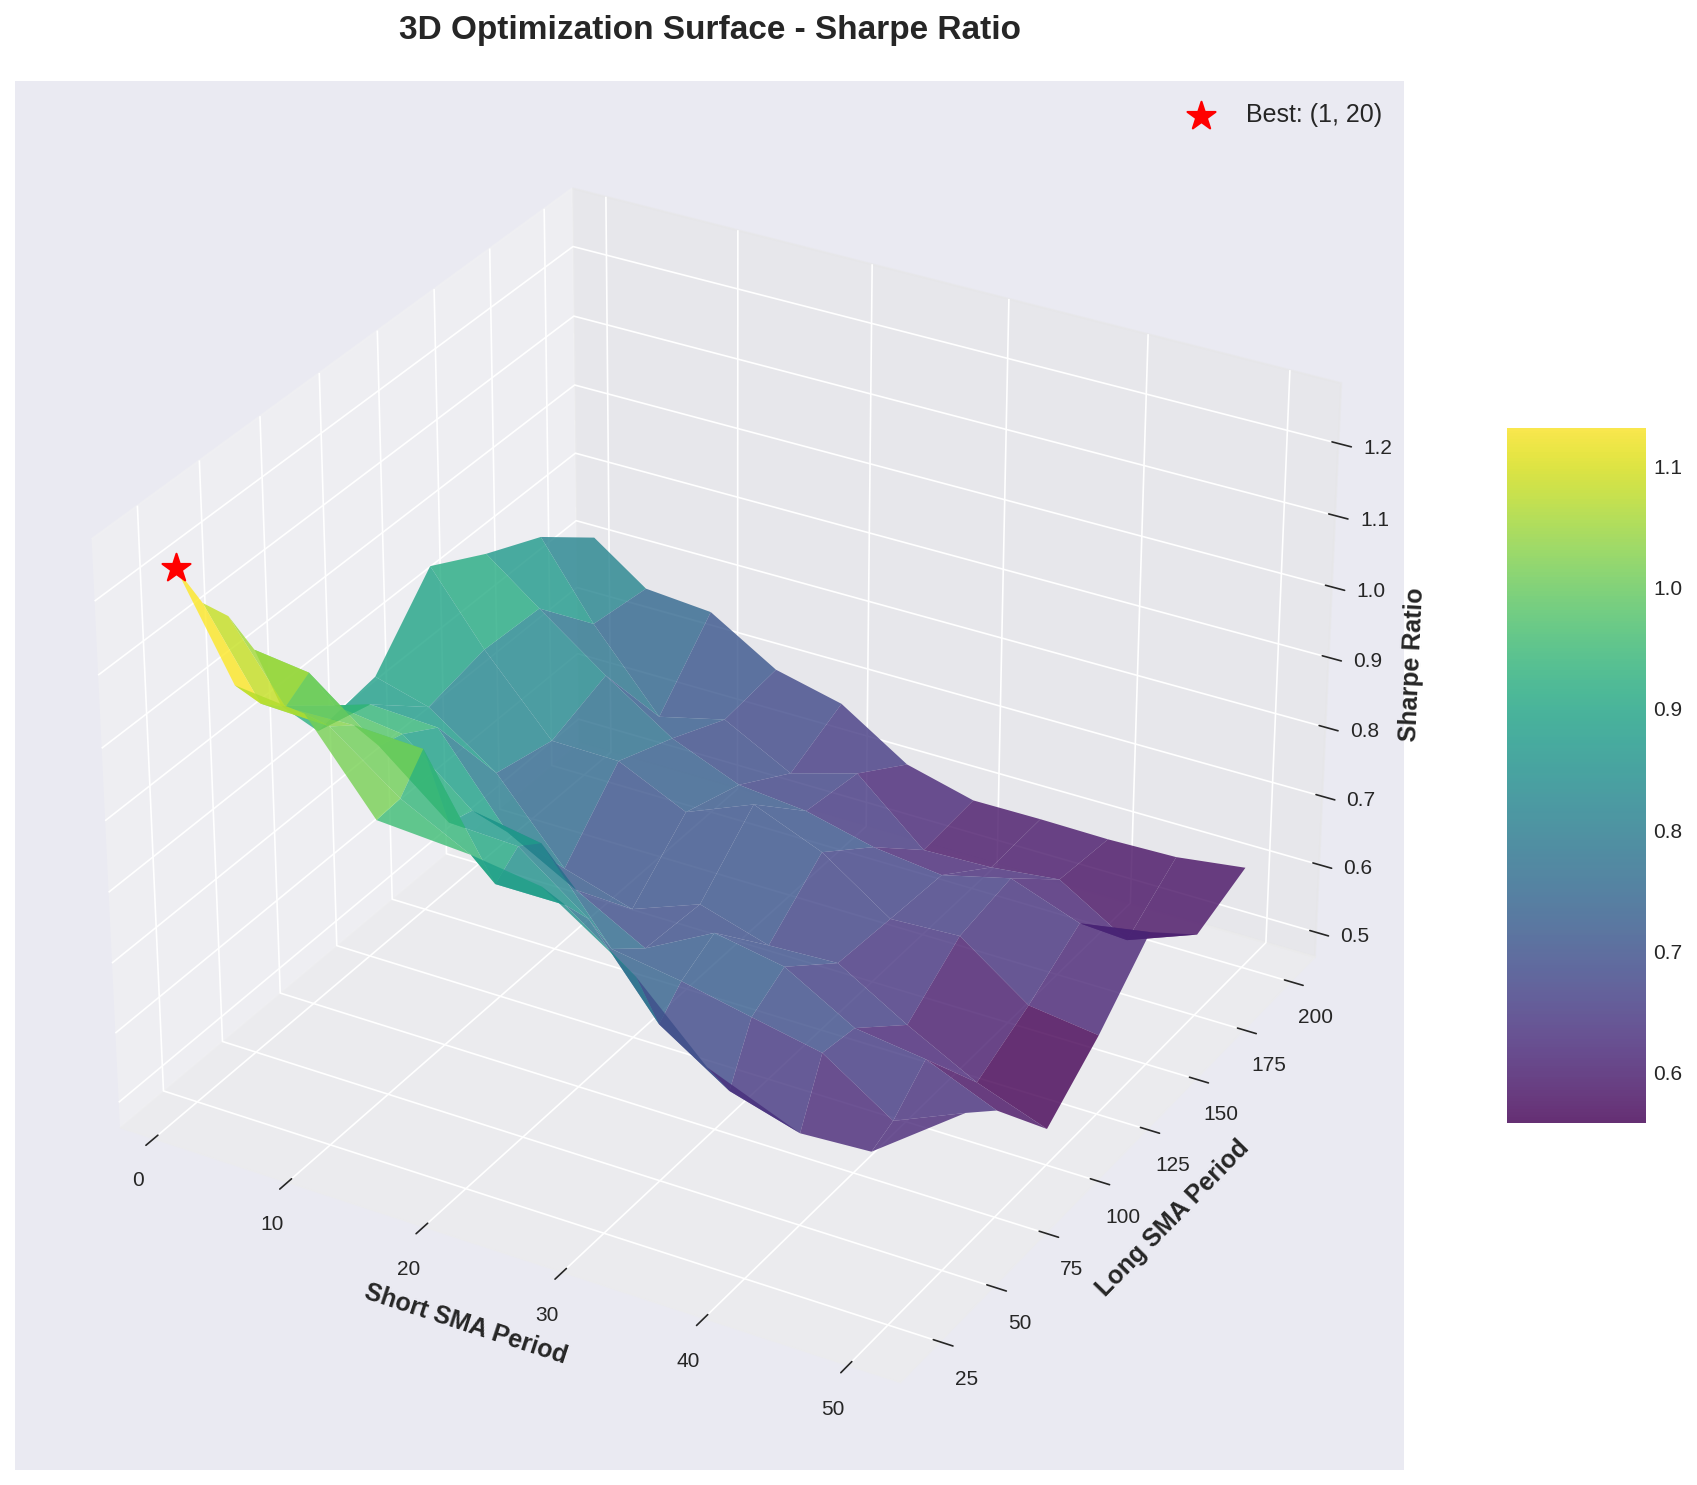
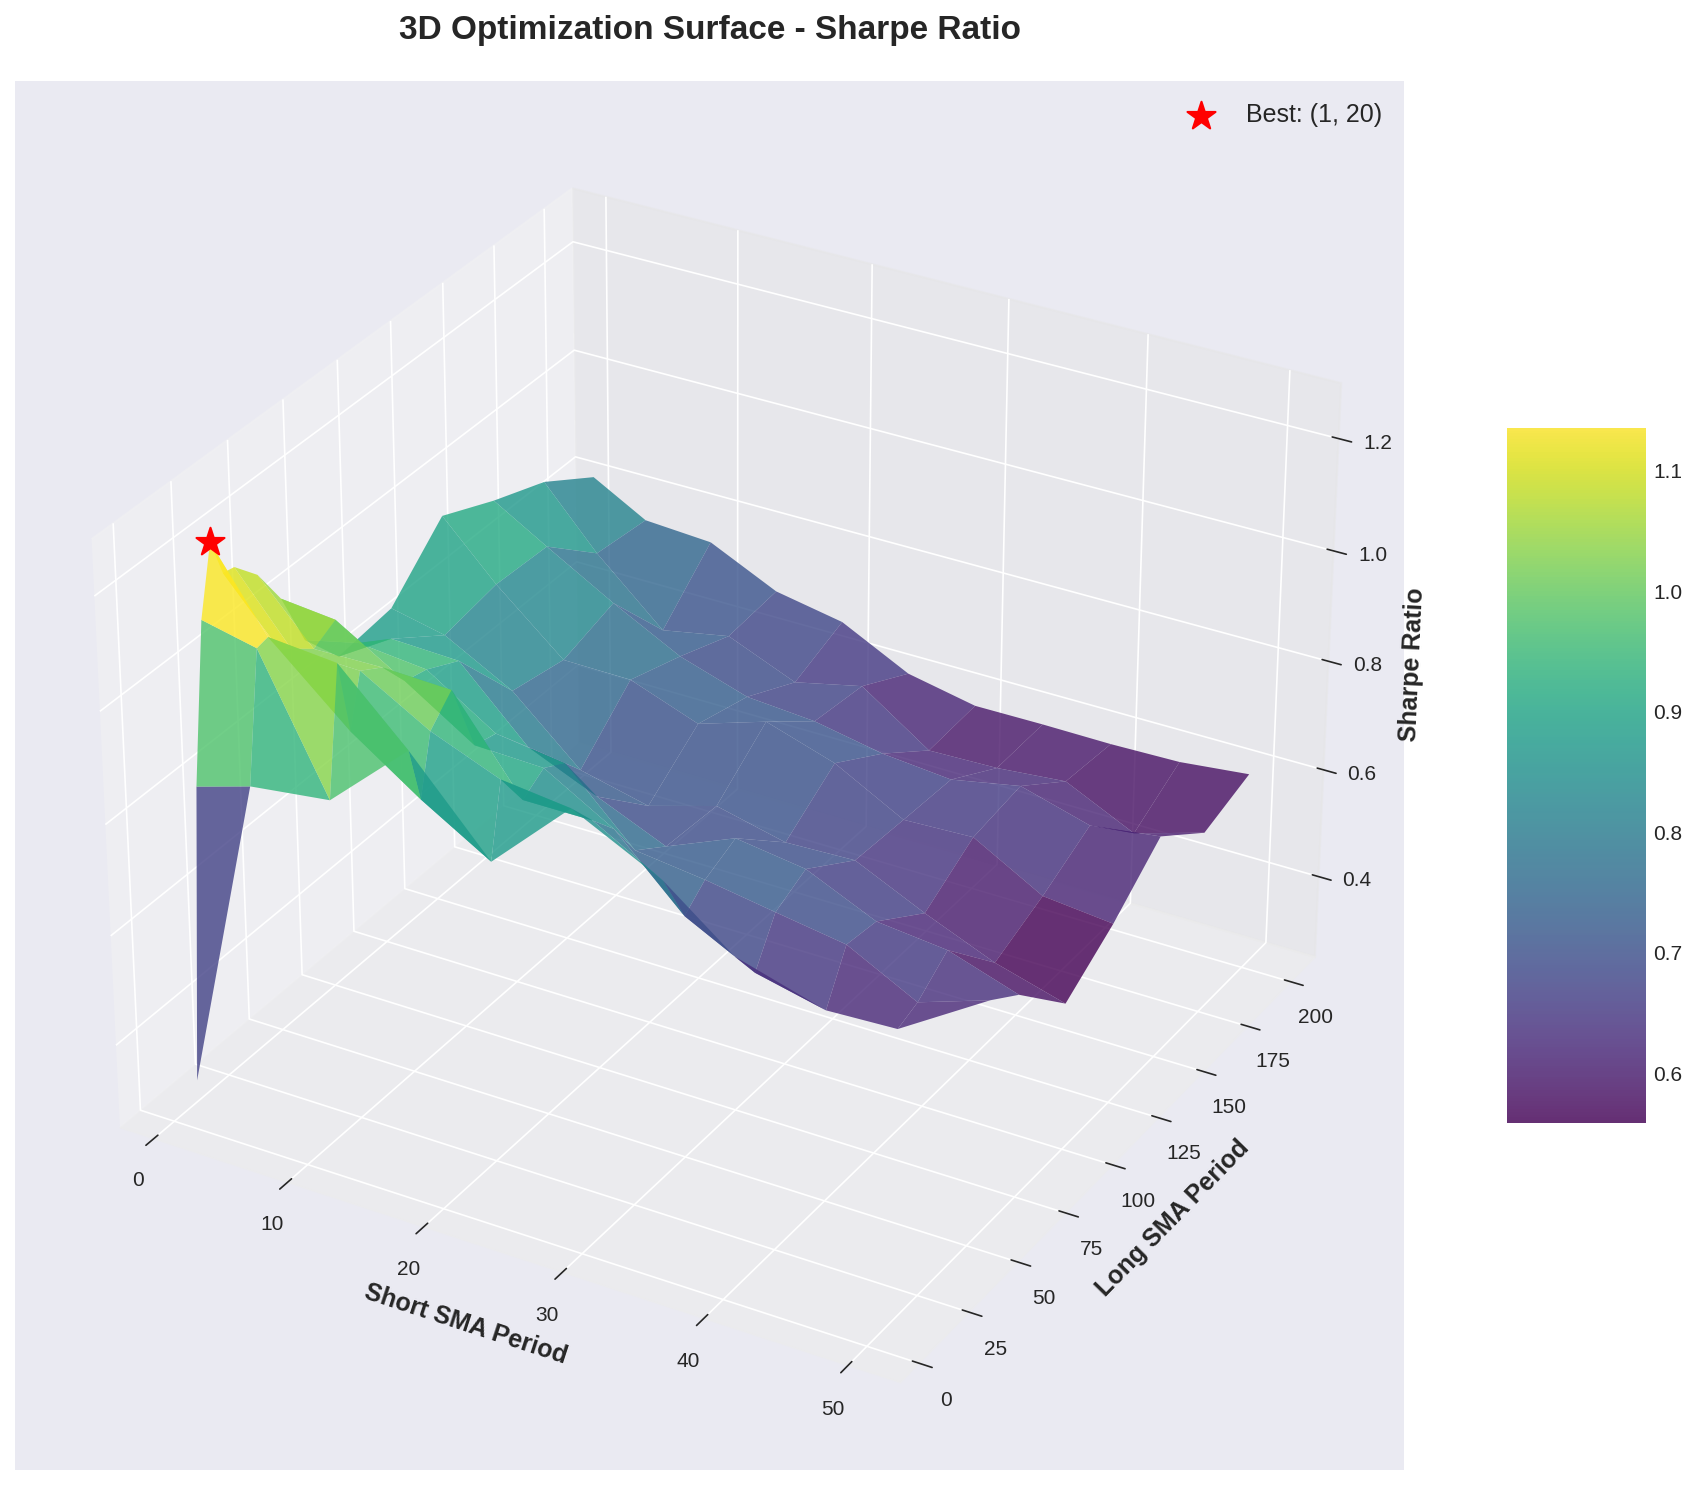
Extend SMA optimization to include short long periods (5-20)
Extended the parameter optimization to include shorter long periods,
providing a comprehensive analysis from Long=5 to Long=200.

Key findings from extended analysis:
- Total combinations tested: 116 (up from 105)
- Long=5 performs poorly (avg Sharpe: 0.314)
- Long=10 shows improvement (avg Sharpe: 0.847)
- Long=15-30 range is optimal (avg Sharpe: 1.016)
- Best combination remains SMA(1) vs SMA(20)

New insights:
1. Very short long periods (5-10) are too noisy
2. Long=15 becomes viable (best: Short=1, Sharpe=1.11)
3. Optimal long period range: 15-30 days
4. Trade-off: shorter periods = more trades but lower Sharpe

Top 5 with short long periods:
1. (1, 20): Sharpe 1.231, CAGR 70.81%
2. (1, 15): Sharpe 1.111, CAGR 59.96%
3. (5, 20): Sharpe 1.094, CAGR 58.40%
4. (5, 15): Sharpe 1.089, CAGR 59.18%
5. (10, 20): Sharpe 1.083, CAGR 57.20%

Files updated/added:
- sma_cross_optimization.py: Extended LONG_RANGE to start from 5
- sma_optimization_results.csv: Now includes 116 combinations
- sma_optimization_curves.png: Updated heatmaps with new data
- sma_optimization_3d_sharpe.png: Updated 3D surface with extended range
- create_short_long_comparison.py: New analysis script
- sma_short_long_comparison.png: Line chart comparison for short long periods

diff --git a/create_short_long_comparison.py b/create_short_long_comparison.py
@@ -1,0 +1,124 @@
+"""
+Create comparison chart for short long period combinations
+"""
+
+import pandas as pd
+import matplotlib.pyplot as plt
+import seaborn as sns
+import numpy as np
+
+# Set style
+plt.style.use('seaborn-v0_8-darkgrid')
+sns.set_palette("husl")
+
+# Load results
+df = pd.read_csv('sma_optimization_results.csv')
+
+# Filter for specific combinations to compare
+short_periods = [1, 5, 10]
+long_periods = [5, 10, 15, 20, 25, 30, 40, 50]
+
+# Filter data
+filtered_df = df[df['short_period'].isin(short_periods) &
+                 df['long_period'].isin(long_periods)].copy()
+
+# Create figure with multiple subplots
+fig, axes = plt.subplots(2, 3, figsize=(20, 12))
+fig.suptitle('SMA Cross Strategy - Short vs Long Period Comparison\n(Focus on Short Long Periods)',
+             fontsize=18, fontweight='bold', y=0.995)
+
+metrics = [
+    ('sharpe_ratio', 'Sharpe Ratio', 'Higher is Better'),
+    ('cagr', 'CAGR (%)', 'Higher is Better'),
+    ('total_return', 'Total Return (%)', 'Higher is Better'),
+    ('max_drawdown', 'Max Drawdown (%)', 'Closer to 0 is Better'),
+    ('win_rate', 'Win Rate (%)', 'Higher is Better'),
+    ('total_trades', 'Total Trades', 'Information')
+]
+
+for idx, (metric, title, note) in enumerate(metrics):
+    ax = axes[idx // 3, idx % 3]
+
+    # Create line plot for each short period
+    for short in short_periods:
+        data = filtered_df[filtered_df['short_period'] == short].sort_values('long_period')
+        ax.plot(data['long_period'], data[metric],
+               marker='o', linewidth=2.5, markersize=8,
+               label=f'Short={short}', alpha=0.8)
+
+    ax.set_title(f'{title}\n{note}', fontsize=13, fontweight='bold', pad=10)
+    ax.set_xlabel('Long SMA Period', fontsize=11, fontweight='bold')
+    ax.set_ylabel(title, fontsize=11, fontweight='bold')
+    ax.legend(loc='best', fontsize=10, framealpha=0.9)
+    ax.grid(True, alpha=0.3, linestyle='--')
+
+    # Mark the best value
+    if metric == 'max_drawdown':
+        best_idx = filtered_df[metric].idxmax()  # Closest to 0
+    else:
+        best_idx = filtered_df[metric].idxmax()
+
+    best_val = filtered_df.loc[best_idx]
+    ax.axvline(x=best_val['long_period'], color='red',
+              linestyle=':', linewidth=1.5, alpha=0.5)
+    ax.text(best_val['long_period'], ax.get_ylim()[1],
+           f"Best Long={int(best_val['long_period'])}\nShort={int(best_val['short_period'])}",
+           fontsize=9, ha='center', va='top',
+           bbox=dict(boxstyle='round', facecolor='yellow', alpha=0.7))
+
+plt.tight_layout()
+plt.savefig('sma_short_long_comparison.png', dpi=150, bbox_inches='tight')
+print("✓ Short-long comparison chart saved to: sma_short_long_comparison.png")
+plt.close()
+
+# Create a summary table
+print("\n" + "="*80)
+print("SUMMARY: Top 10 Combinations (by Sharpe Ratio)")
+print("="*80)
+top_10 = df.nlargest(10, 'sharpe_ratio')[['short_period', 'long_period',
+                                           'total_return', 'cagr',
+                                           'sharpe_ratio', 'max_drawdown',
+                                           'win_rate', 'total_trades']]
+print(top_10.to_string(index=False))
+print("="*80)
+
+# Create a focused table for short long periods
+print("\n" + "="*80)
+print("FOCUS: Combinations with Long Period 5-20")
+print("="*80)
+short_long_df = df[df['long_period'] <= 20].sort_values('sharpe_ratio', ascending=False)
+print(short_long_df[['short_period', 'long_period', 'total_return', 'cagr',
+                     'sharpe_ratio', 'max_drawdown', 'win_rate']].head(15).to_string(index=False))
+print("="*80)
+
+# Key insights
+print("\n" + "="*80)
+print("KEY INSIGHTS")
+print("="*80)
+print(f"1. Best Overall: Short={int(df.loc[df['sharpe_ratio'].idxmax(), 'short_period'])}, " +
+      f"Long={int(df.loc[df['sharpe_ratio'].idxmax(), 'long_period'])}, " +
+      f"Sharpe={df['sharpe_ratio'].max():.3f}")
+
+short_long = df[df['long_period'] <= 20]
+print(f"2. Best with Long≤20: Short={int(short_long.loc[short_long['sharpe_ratio'].idxmax(), 'short_period'])}, " +
+      f"Long={int(short_long.loc[short_long['sharpe_ratio'].idxmax(), 'long_period'])}, " +
+      f"Sharpe={short_long['sharpe_ratio'].max():.3f}")
+
+print(f"3. Combinations with Long=5: {len(df[df['long_period']==5])} tested, " +
+      f"Best Sharpe={df[df['long_period']==5]['sharpe_ratio'].max():.3f}")
+
+print(f"4. Combinations with Long=10: {len(df[df['long_period']==10])} tested, " +
+      f"Best Sharpe={df[df['long_period']==10]['sharpe_ratio'].max():.3f}")
+
+print(f"5. Combinations with Long=15: {len(df[df['long_period']==15])} tested, " +
+      f"Best Sharpe={df[df['long_period']==15]['sharpe_ratio'].max():.3f}")
+
+print(f"6. Combinations with Long=20: {len(df[df['long_period']==20])} tested, " +
+      f"Best Sharpe={df[df['long_period']==20]['sharpe_ratio'].max():.3f}")
+
+print("\n7. Pattern Analysis:")
+print(f"   - Long=5 performs poorly (avg Sharpe: {df[df['long_period']==5]['sharpe_ratio'].mean():.3f})")
+print(f"   - Long=10 shows improvement (avg Sharpe: {df[df['long_period']==10]['sharpe_ratio'].mean():.3f})")
+print(f"   - Long=15-30 range is optimal (avg Sharpe 15-30: {df[df['long_period'].between(15,30)]['sharpe_ratio'].mean():.3f})")
+print(f"   - Very long periods (>100) decline (avg Sharpe >100: {df[df['long_period']>100]['sharpe_ratio'].mean():.3f})")
+print("="*80)

diff --git a/sma_cross_optimization.py b/sma_cross_optimization.py
@@ -553,8 +553,8 @@ def main():
     # Short range: includes 1 (previous close) to 50
     SHORT_RANGE = [1, 5, 10, 15, 20, 25, 30, 35, 40, 45, 50]
 
-    # Long range: from 20 to 200
-    LONG_RANGE = [20, 30, 40, 50, 60, 75, 100, 125, 150, 175, 200]
+    # Long range: from 5 to 200 (extended to include shorter periods)
+    LONG_RANGE = [5, 10, 15, 20, 25, 30, 40, 50, 60, 75, 100, 125, 150, 175, 200]
 
     # Optimization metric
     METRIC = 'sharpe_ratio'  # Options: 'sharpe_ratio', 'cagr', 'total_return'
